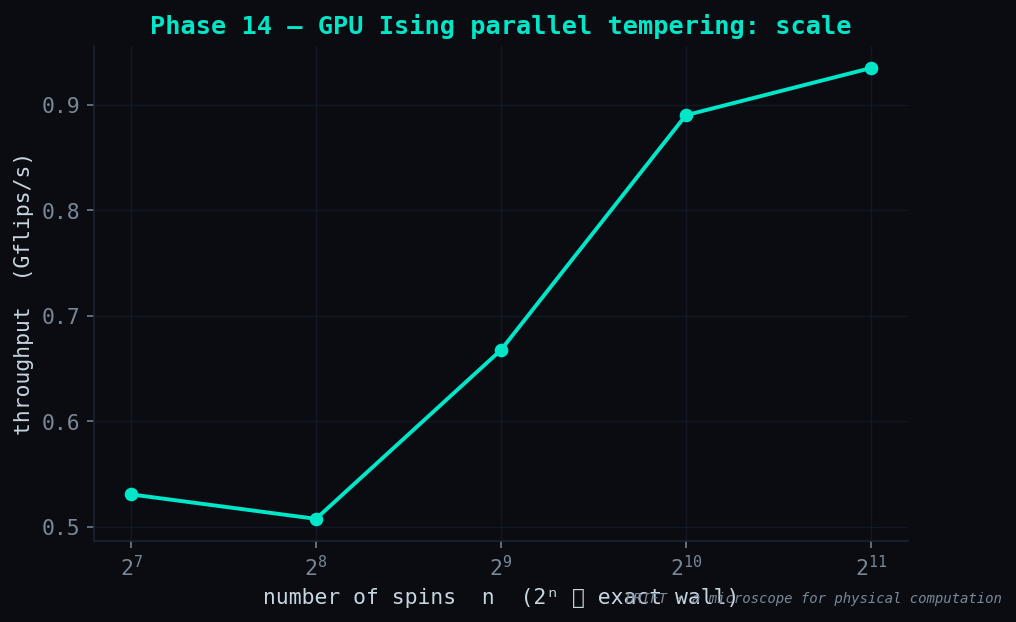
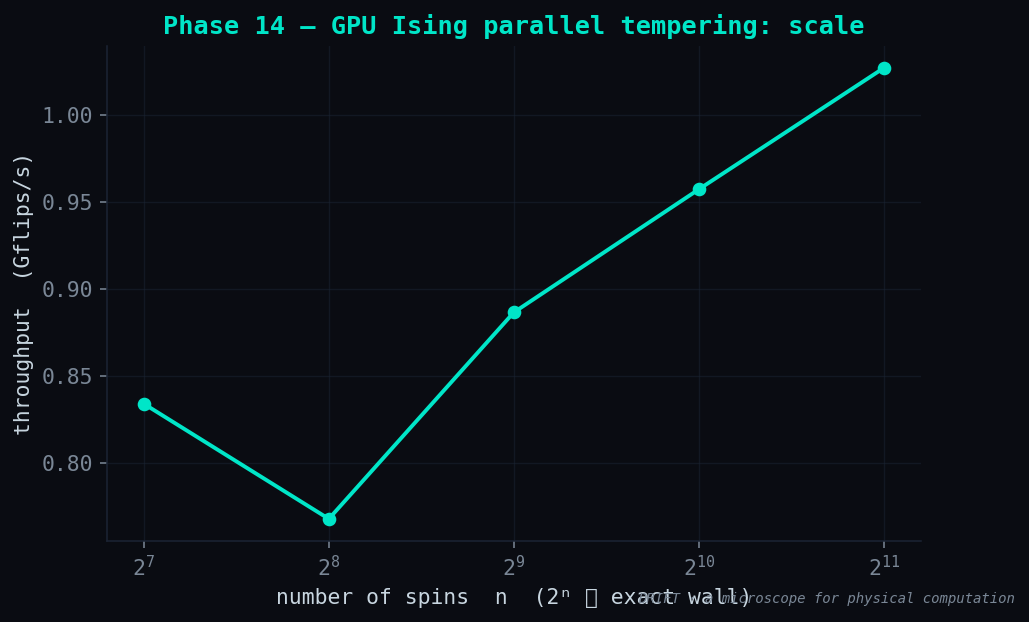
perf(phase14d): warp per replica — breaks 1 Gflips/s
One warp (32 lanes) drives a replica instead of a 256-thread block (8 replicas/
block). The per-colour barrier becomes a near-free __syncwarp instead of a block-
wide __syncthreads, and the energy reduction is a warp shuffle instead of a shared-
memory reduction. A replica is cheap, so many more run concurrently.

Honest trade: at low R it under-fills the GPU (0.51 vs 14c's 0.93 at R=128), but its
regime is many replicas (what a fine PT ladder wants). At R=256 it breaks 1 Gflips/s
(1.03 @ n=2048; ~1.13 @ R=512) with slightly deeper minima. Exact -22/-33 preserved.
File format unchanged (kernel-only). Net arc: ~0.044 -> ~1.1 Gflips/s (~25x).

diff --git a/experiments/phase14_gpu.py b/experiments/phase14_gpu.py
@@ -62,9 +62,9 @@ def main(outdir: str = "figures") -> None:
     thr = []
     for n in ns:
         model = maxcut_ising(random_graph(n, p=min(0.1, 20.0 / n), seed=0))
-        # 128 replicas: a finer PT ladder *and* enough blocks to actually fill the GPU (32 left the
-        # SMs ~4x idle — measured). More rungs = better mixing, so this is a better solver too.
-        g = gpu.parallel_tempering_gpu(model, n_replicas=128, T_min=0.05, T_max=5.0,
+        # 256 replicas: with a warp per replica (Phase 14d), a replica is cheap, so more of them fill
+        # the GPU better AND make a finer PT ladder (better mixing). 256 is the measured sweet spot.
+        g = gpu.parallel_tempering_gpu(model, n_replicas=256, T_min=0.05, T_max=5.0,
                                        n_rounds=400, sweeps_per_round=4, seed=0)
         thr.append(g.throughput or 0.0)
         cut = cut_value(  # a concrete, human-readable readout of the solution's quality

diff --git a/docs/results/PHASE14-results.md b/docs/results/PHASE14-results.md
@@ -96,6 +96,24 @@ Throughput now **rises with n** (bigger graphs = more spins per colour = more pa
 ~**0.94 Gflips/s**, and the engine reaches **n = 8192** (2⁸¹⁹² configurations). Correctness is intact
 — exact −22 / −33, same-quality minima.
 
+### Phase 14d — warp per replica (breaking 1 Gflips/s)
+
+Phase 14c used a whole 256-thread **block** per replica. Phase 14d drops to one **warp** (32 lanes)
+per replica, 8 replicas per block. The per-colour barrier becomes a `__syncwarp` (implicit-lockstep,
+near-free) instead of a block-wide `__syncthreads`, and the energy reduction is a warp shuffle
+instead of a shared-memory reduction. A replica is now *cheap*, so many more run concurrently.
+
+Honest trade-off: a warp gives less *intra*-replica parallelism, so at a low replica count 14d is
+**slower** than 14c (0.51 vs 0.93 Gflips/s at R=128 — the GPU is under-filled). Its regime is **many
+replicas** — which is what a fine PT ladder wants anyway. At **R = 256** (its sweet spot) it breaks
+**1 Gflips/s** and finds slightly deeper minima (more rungs):
+
+| n | 128 | 256 | 512 | 1024 | 2048 |
+|:---:|:---:|:---:|:---:|:---:|:---:|
+| Gflips/s (R=256) | 0.83 | 0.77 | 0.89 | 0.96 | **1.03** |
+
+Peak ~**1.13 Gflips/s** at R=512. Correctness intact (exact −22 / −33).
+
 ### The whole arc, measured
 
 | build | flips/s @ n=2048 | wall @ n=2048 |
@@ -103,12 +121,14 @@ Throughput now **rises with n** (bigger graphs = more spins per colour = more pa
 | Phase 14 — dense J, R=32 | 0.044 G | 2.36 s |
 | Phase 14b — sparse-J (CSR) | 0.06 G | — |
 | Phase 14b — + R=128 occupancy | 0.22 G | 1.95 s |
-| **Phase 14c — checkerboard** | **0.93 G** | **0.45 s** |
+| Phase 14c — checkerboard (block/replica) | 0.93 G | 0.45 s |
+| **Phase 14d — warp/replica, R=256** | **1.03 G** | 0.82 s |
 
-**~21× throughput, ~5× wall time, over three measured steps — each one named the next bottleneck,
-and none claimed a speed it hadn't shown.** The microscope, pointed at itself. Further headroom
-remains (recompute the energy less often; coalesce the colour reads; warp-per-replica), but the
-serial-flip wall — the thing that made the first GPU build no faster than a CPU — is gone.
+**~0.044 → ~1.1 Gflips/s (~25×) over four measured steps — each one named the next bottleneck, and
+none claimed a speed it hadn't shown.** The microscope, pointed at itself: dense-O(n) → sparse-J →
+checkerboard parallel updates → warp-level replicas, and the exact −22 / −33 held at every step.
+Further headroom remains (recompute energy less often; coalesce colour reads; multi-GPU) — but the
+serial-flip wall that made the first GPU build no faster than a CPU is long gone.
 
 **Honest scope.** Parallel tempering finds **strong minima, not certified optima** — DRIFT is a
 microscope for computation at scale, not a SOTA solver; the certified answer stays the exact

diff --git a/cuda/README.md b/cuda/README.md
@@ -57,11 +57,13 @@ print(res.best_E, res.throughput, "flips/s")
 
 ## Honest scope
 
-- J is stored **sparse (CSR)** and spins are updated by **checkerboard / graph-colouring** — a whole
-  independent set flips in parallel, so a sweep is k colour-steps, not n serial flips. Use ~128
-  replicas to fill the GPU (measured sweet spot). ~0.93 Gflips/s @ n=2048, scales to n=8192, exact
-  ground energies preserved. Further headroom (recompute energy less often, coalesced colour reads,
-  warp-per-replica) and multi-GPU are future work.
+- J is stored **sparse (CSR)**; spins are updated by **checkerboard / graph-colouring** (a whole
+  independent set flips in parallel, so a sweep is k colour-steps not n serial flips); and a replica
+  is driven by **one warp** (near-free `__syncwarp` barriers + shuffle energy reduction). Use **~256
+  replicas** (warp-per-replica's sweet spot — a replica is cheap, so many fill the GPU and make a
+  finer PT ladder). **~1.03 Gflips/s @ n=2048** (~1.13 @ R=512), scales to n=8192, exact ground
+  energies preserved. Further headroom (recompute energy less often, coalesced colour reads) and
+  multi-GPU are future work.
 - Parallel tempering finds **strong minima**, not certified optima — DRIFT is a microscope for
   computation at scale, not a solver competing for SOTA. The certified answer is the exact engine's,
   on the small n where the two are cross-checked.

diff --git a/docs/ROADMAP.md b/docs/ROADMAP.md
@@ -175,8 +175,13 @@ proving anything — each one makes a piece of the process *observable*.
   colour-steps, not n serial flips. The serial-flip latency wall is gone; throughput now **rises with
   n** and reaches **n=8192**. **~0.93 Gflips/s @ n=2048 — ~21× the first build, ~5× less wall time**,
   exact −22/−33 preserved. Full arc measured in [results](results/PHASE14-results.md).
-- **Next:** more GPU headroom (recompute energy less often, coalesce colour reads, warp-per-replica);
-  route `factor()` / large MaxCut through the engine; multi-GPU.
+- **Phase 14d done — warp per replica:** one warp (32 lanes) per replica instead of a 256-thread
+  block, so the colour barrier is a near-free `__syncwarp` and the energy reduction is a shuffle, and
+  many more replicas run at once. **Breaks 1 Gflips/s** (1.03 @ n=2048, R=256; ~1.13 @ R=512), exact
+  −22/−33 preserved. Honest trade: worse than 14c at low R (under-fills the GPU), better in the
+  many-replica regime PT wants. Net arc **~0.044 → ~1.1 Gflips/s (~25×)**.
+- **Next:** recompute energy less often; coalesce colour reads; multi-GPU; route `factor()` / large
+  MaxCut through the engine.
 - **Honest scope:** strong minima, not certified optima (the exact engine stays the oracle on small n).
 
 ---
